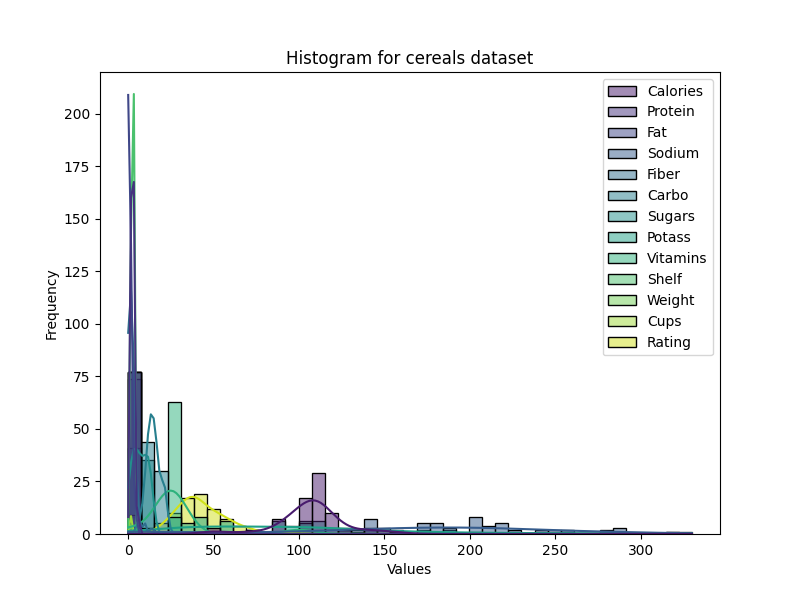
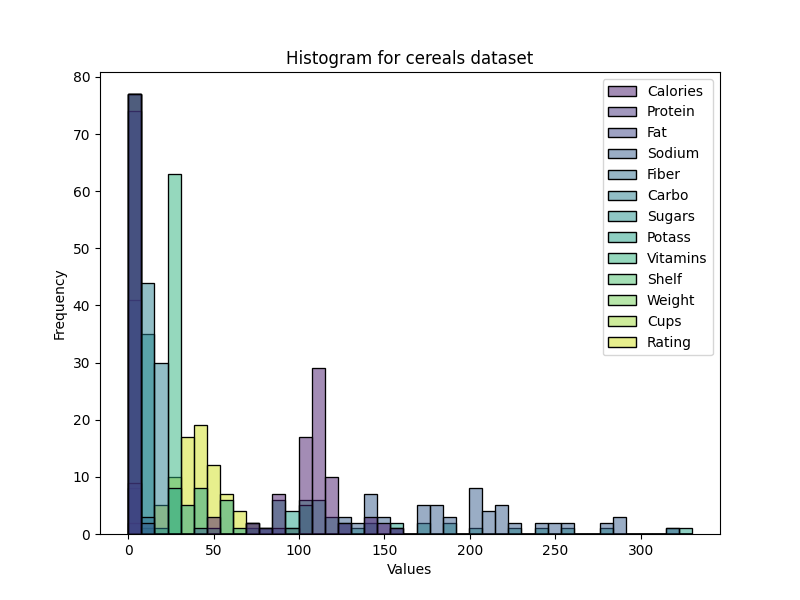
update

diff --git a/Lab Evaluation/ques2.py b/Lab Evaluation/ques2.py
@@ -1,0 +1,85 @@
+'''
+1 Python program to find the area of a triangle whose sides are given
+2 Python program to find out the average of a set of integers
+3 Python program to check whether the given integer is a multiple of both 5 and 7
+4 Python program to find the average of 10 numbers using while loop
+5 Python program to display the given integer in a reverse manner
+6 Python program to display all integers within the range 100-200 whose sum of digits is an even number
+7 Python program to generate the prime numbers from 1 to N
+8 Python program to find the Nth term in a Fibonacci series using recursion
+'''
+
+# 1
+def tArea(a, b, c):
+    s = (a + b + c) / 2
+    area = (s * (s - a) * (s - b) * (s - c)) ** 0.5
+    return area
+
+# 2
+def intAvg(*args):
+    return sum(args) / len(args)
+
+# 3
+def multiple5and7(n):
+    return n % 5 == 0 and n % 7 == 0
+
+# 4
+def avg10():
+    total = 0
+    count = 0
+    while count < 10:
+        total += int(input('Enter a number: '))
+        count += 1
+    return total / 10
+
+# 5
+def revInt(n):
+    return int(str(n)[::-1])
+
+# 6
+def digitSum(n):
+    return sum(map(int, str(n)))
+
+def even_digitSum():
+    for i in range(100, 201):
+        if digitSum(i) % 2 == 0:
+            print(i)
+
+# 7
+def isPrime(n):
+    if n < 2:
+        return False
+    for i in range(2, n):
+        if n % i == 0:
+            return False
+    return True
+
+def prime_numbers(n):
+    for i in range(1, n + 1):
+        if isPrime(i):
+            print(i)
+
+# fibonacci function print every iteration of the fibonacci series
+def fibonacci(n):
+    if n <= 1:
+        return n
+    else:
+        return fibonacci(n - 1) + fibonacci(n - 2)
+
+print("#1\n", tArea(3, 4, 5))
+print("#2\n", intAvg(1, 2, 3, 4, 5))
+print("#3\n", multiple5and7(35))
+print("#4\n", avg10())
+print("#5\n", revInt(12345))
+print("#6\n",)
+even_digitSum()
+print("#7\n")
+prime_numbers(100)
+
+def fibonacci_series(n):
+    fib_series = []
+    for i in range(n):
+        fib_series.append(fibonacci(i))
+    return fib_series
+
+print("#8\n", fibonacci_series(10))

diff --git a/Lab 6 - DV plotting/02_cerealsPlot.py b/Lab 6 - DV plotting/02_cerealsPlot.py
@@ -11,6 +11,7 @@ import matplotlib.pyplot as mplot
 import seaborn as sea
 
 data = pd.read_csv('./Datasets/cereal.csv')
+data = data.drop(columns=["Cold","Nabisco","Quaker","Kelloggs","GeneralMills","Ralston","AHFP"])
 print('\nInitial data:\n', data)
 
 #a1
@@ -23,7 +24,7 @@ mplot.show()
 
 #a2
 mplot.figure(figsize=(8, 6))
-sea.histplot(data=data, kde=True, palette='viridis')
+sea.histplot(data=data, palette='viridis')
 mplot.title('Histogram for cereals dataset')
 mplot.xlabel('Values')
 mplot.ylabel('Frequency')

diff --git a/Lab 5 - Data cleaning of CSV/02_cerealsCSV.py b/Lab 5 - Data cleaning of CSV/02_cerealsCSV.py
@@ -19,7 +19,8 @@ e.  Create a table with the 5 number summary of all the numeric
 import pandas as pd
 import numpy as np
 
-data = pd.read_csv("./Datasets/cereals.csv")
+data = pd.read_csv("./Datasets/cereal.csv")
+data = data.drop(columns=["Cold", "Nabisco", "Quaker", "Kelloggs", "GeneralMills", "Ralston", "AHFP"], index=range(10,77))
 
 print('\nInitial data:\n', data)
 
